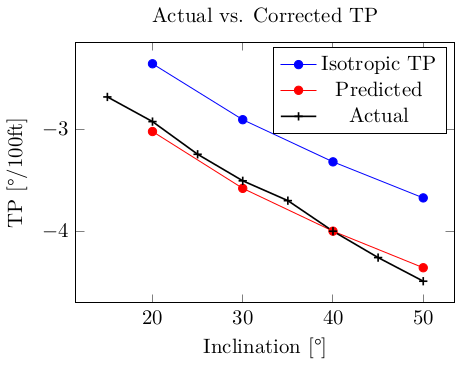
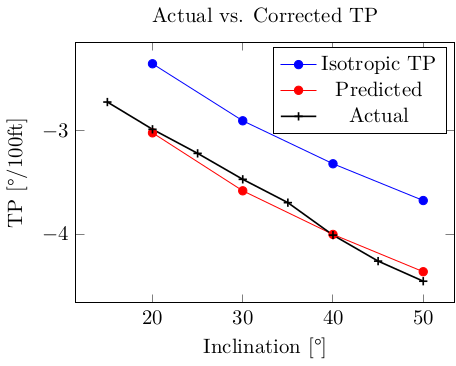
Testing

diff --git a/cases/case_01/plots/case_01a.tex b/cases/case_01/plots/case_01a.tex
@@ -38,14 +38,14 @@
         table[row sep={\\}]
         {
             \\
-            15.0  -2.6814672956216494  \\
-            20.0  -2.923565967178493  \\
-            25.0  -3.244252117938956  \\
-            30.0  -3.5046627774025114  \\
-            35.0  -3.6992367244923807  \\
-            40.0  -3.9991058479792976  \\
-            45.0  -4.258001689986784  \\
-            50.0  -4.489707579399928  \\
+            15.0  -2.7244427152070085  \\
+            20.0  -2.986826499288135  \\
+            25.0  -3.21842892321901  \\
+            30.0  -3.4682392523844494  \\
+            35.0  -3.692750792576468  \\
+            40.0  -4.005080881778429  \\
+            45.0  -4.255474515536175  \\
+            50.0  -4.4487564200103265  \\
         }
         ;
     \addlegendentry {Actual}
